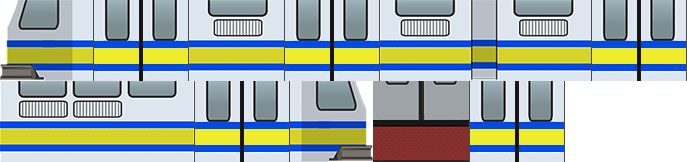
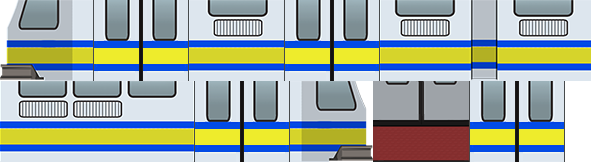
Train is now rendering properly

diff --git a/bad-vibes-game/src/com/mobi/badvibes/view/TrainView.java b/bad-vibes-game/src/com/mobi/badvibes/view/TrainView.java
@@ -14,14 +14,14 @@ public class TrainView
 
     public static int            TrainHeight        = 81;
 
-    public static int            TrainDoorWidth     = 49;
+    public static int            TrainDoorWidth     = 48;
     public static int            TrainDoorHeight    = 81;
 
-    public static int            TrainLeftSide      = 589;
+    public static int            TrainLeftSide      = 591;
     public static int            TrainRightSide     = 373;
 
-    public static int            TrainInteriorWidth = 94;
-    
+    public static int            TrainInteriorWidth = 96;
+
     public static int            SpriteSecondRow    = 81;
 
     /*
@@ -38,29 +38,32 @@ public class TrainView
 
     private static TextureRegion trainInterior;
 
-    public Vector2               Position;
-
     public static void Initialize()
     {
-        trainTexture = new Texture(Gdx.files.internal("data/game/train.png"));
+        trainTexture    = new Texture(Gdx.files.internal("data/game/train.png"));
 
-        trainPartA = new TextureRegion(trainTexture, 0,               0,  TrainLeftSide, TrainHeight);
-        trainPartB = new TextureRegion(trainTexture, 0, SpriteSecondRow, TrainRightSide, TrainHeight);
+        trainPartA      = new TextureRegion(trainTexture, 0, 0, TrainLeftSide, TrainHeight);
+        trainPartB      = new TextureRegion(trainTexture, 0, SpriteSecondRow, TrainRightSide, TrainHeight);
 
-        trainDoorLeft   = new TextureRegion(trainTexture, 467, SpriteSecondRow,     TrainDoorWidth, TrainDoorHeight);
-        trainDoorRight  = new TextureRegion(trainTexture, 516, SpriteSecondRow,     TrainDoorWidth, TrainDoorHeight);
+        trainDoorLeft   = new TextureRegion(trainTexture, 469, SpriteSecondRow, TrainDoorWidth, TrainDoorHeight);
+        trainDoorRight  = new TextureRegion(trainTexture, 517, SpriteSecondRow, TrainDoorWidth, TrainDoorHeight);
 
         trainInterior   = new TextureRegion(trainTexture, 373, SpriteSecondRow, TrainInteriorWidth, TrainHeight);
-        
-        trainPartA      .flip(false, true);
-        trainPartB      .flip(false, true);
 
-        trainDoorLeft   .flip(false, true);
-        trainDoorRight  .flip(false, true);
-        
-        trainInterior   .flip(false, true);
+        trainPartA.flip(false, true);
+        trainPartB.flip(false, true);
+
+        trainDoorLeft.flip(false, true);
+        trainDoorRight.flip(false, true);
+
+        trainInterior.flip(false, true);
     }
 
+    
+    public Vector2               Position           = new Vector2();
+
+    public float                 TrainDoorOffset    = 50;
+    
     public TrainView()
     {
 
@@ -69,17 +72,22 @@ public class TrainView
     public void render(SpriteBatch spriteBatch, float delta)
     {
         spriteBatch.begin();
-    
-            spriteBatch.setColor(1, 1, 1, 1);
-    
-            spriteBatch.draw(    trainPartA,                                    0, 0);
-            spriteBatch.draw(    trainPartB, TrainLeftSide + (TrainDoorWidth * 2), 0);
-            
-            spriteBatch.draw( trainInterior,                        TrainLeftSide, 0);
-            
-            spriteBatch.draw( trainDoorLeft,                        TrainLeftSide, 0);
-            spriteBatch.draw(trainDoorRight,       TrainLeftSide + TrainDoorWidth, 0);
-            
+
+        spriteBatch.setColor(1, 1, 1, 1);
+
+        spriteBatch.draw(trainPartA,
+                         Position.x, Position.y);
+        spriteBatch.draw(trainPartB, 
+                         TrainLeftSide + Position.x + TrainDoorWidth * 2, Position.y);
+
+        spriteBatch.draw(trainInterior,
+                         TrainLeftSide + Position.x, Position.y);
+        
+        spriteBatch.draw(trainDoorLeft,
+                         TrainLeftSide + Position.x - TrainDoorOffset, Position.y);
+        spriteBatch.draw(trainDoorRight,
+                         TrainLeftSide + Position.x + TrainDoorOffset + TrainDoorWidth, Position.y);
+        
         spriteBatch.end();
     }
 }
